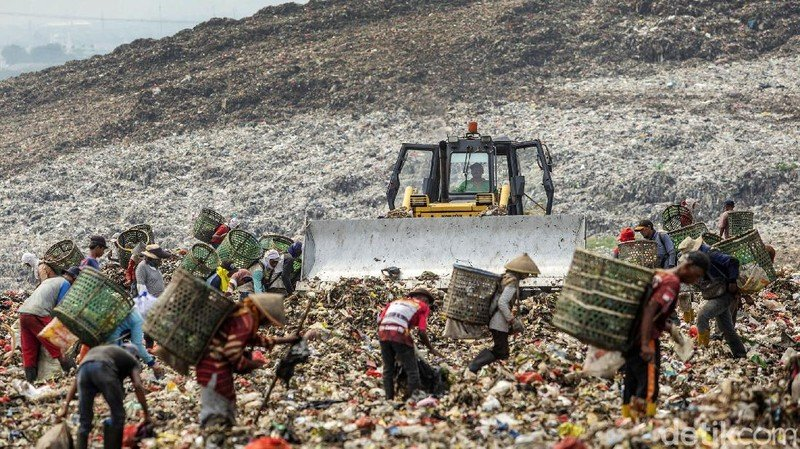
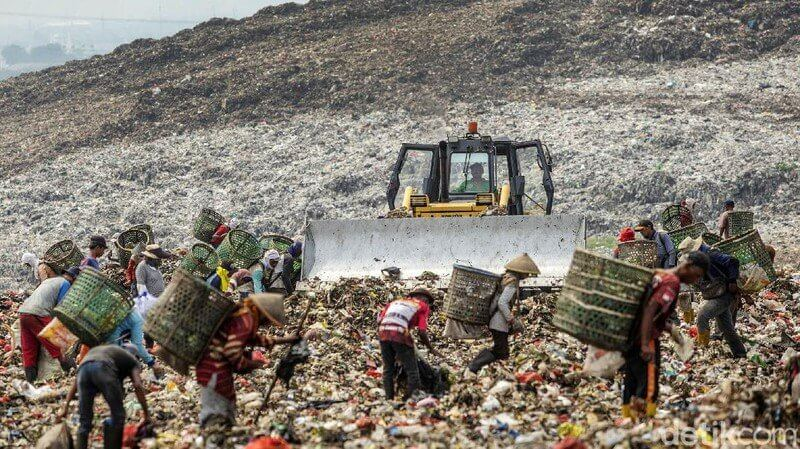
feat: add footer section and minify images

Changed region(s): [[0.4688, 0.6236, 0.5, 0.686], [0.0, 0.686, 0.0312, 0.7171]]

diff --git a/pages/index.tsx b/pages/index.tsx
@@ -49,20 +49,20 @@ const Home: NextPage = () => {
               Find out about the projects we’re working on to bring textile sustainability come to
               life.
             </p>
-            <Button className='px-12 py-5' onClick={() => {}}>
+            <Button className='px-10 py-5' onClick={() => {}}>
               Learn more
             </Button>
           </div>
         </section>
 
         <section className='flex flex-col md:flex-row'>
-          <div className='w-full md:w-1/2 flex-col items-center justify-center text-center'>
+          <div className='w-full md:w-1/2 flex flex-col items-center justify-center text-center'>
             <h2 className='font-medium text-4xl mb-7'>Take Action</h2>
             <p className='font-light px-20 mb-6'>
               Ready to take the next step? You can become a contributor to our cause, or participate
               yourself.
             </p>
-            <Button className='px-12 py-5' onClick={() => {}}>
+            <Button className='px-10 py-5' onClick={() => {}}>
               Find Out How
             </Button>
           </div>

diff --git a/widgets/Layout.tsx b/widgets/Layout.tsx
@@ -1,4 +1,5 @@
 import Head from 'next/head';
+import Footer from '../components/shared/Footer';
 import Navbar from './Navbar';
 
 type Props = {
@@ -9,7 +10,7 @@ export default function Layout({ children }: Props) {
   return (
     <div>
       <main className='min-h-screen max-w-7xl px-2 sm:px-6 lg:px-8 mx-auto mb-8'>{children}</main>
-      {/* <footer>Dummy Footer</footer> */}
+      <Footer />
     </div>
   );
 }

diff --git a/components/shared/Footer.tsx b/components/shared/Footer.tsx
@@ -1,0 +1,7 @@
+export default function Footer() {
+  return (
+    <div className='text-center px-6 py-12 text-white font-light' style={{ background: '#38383B' }}>
+      <p>Jl. RS Mata Aini No.5, RW.5, Kuningan | +62 857-1797-5770 | Forthebetter.id@gmail.com</p>
+    </div>
+  );
+}
